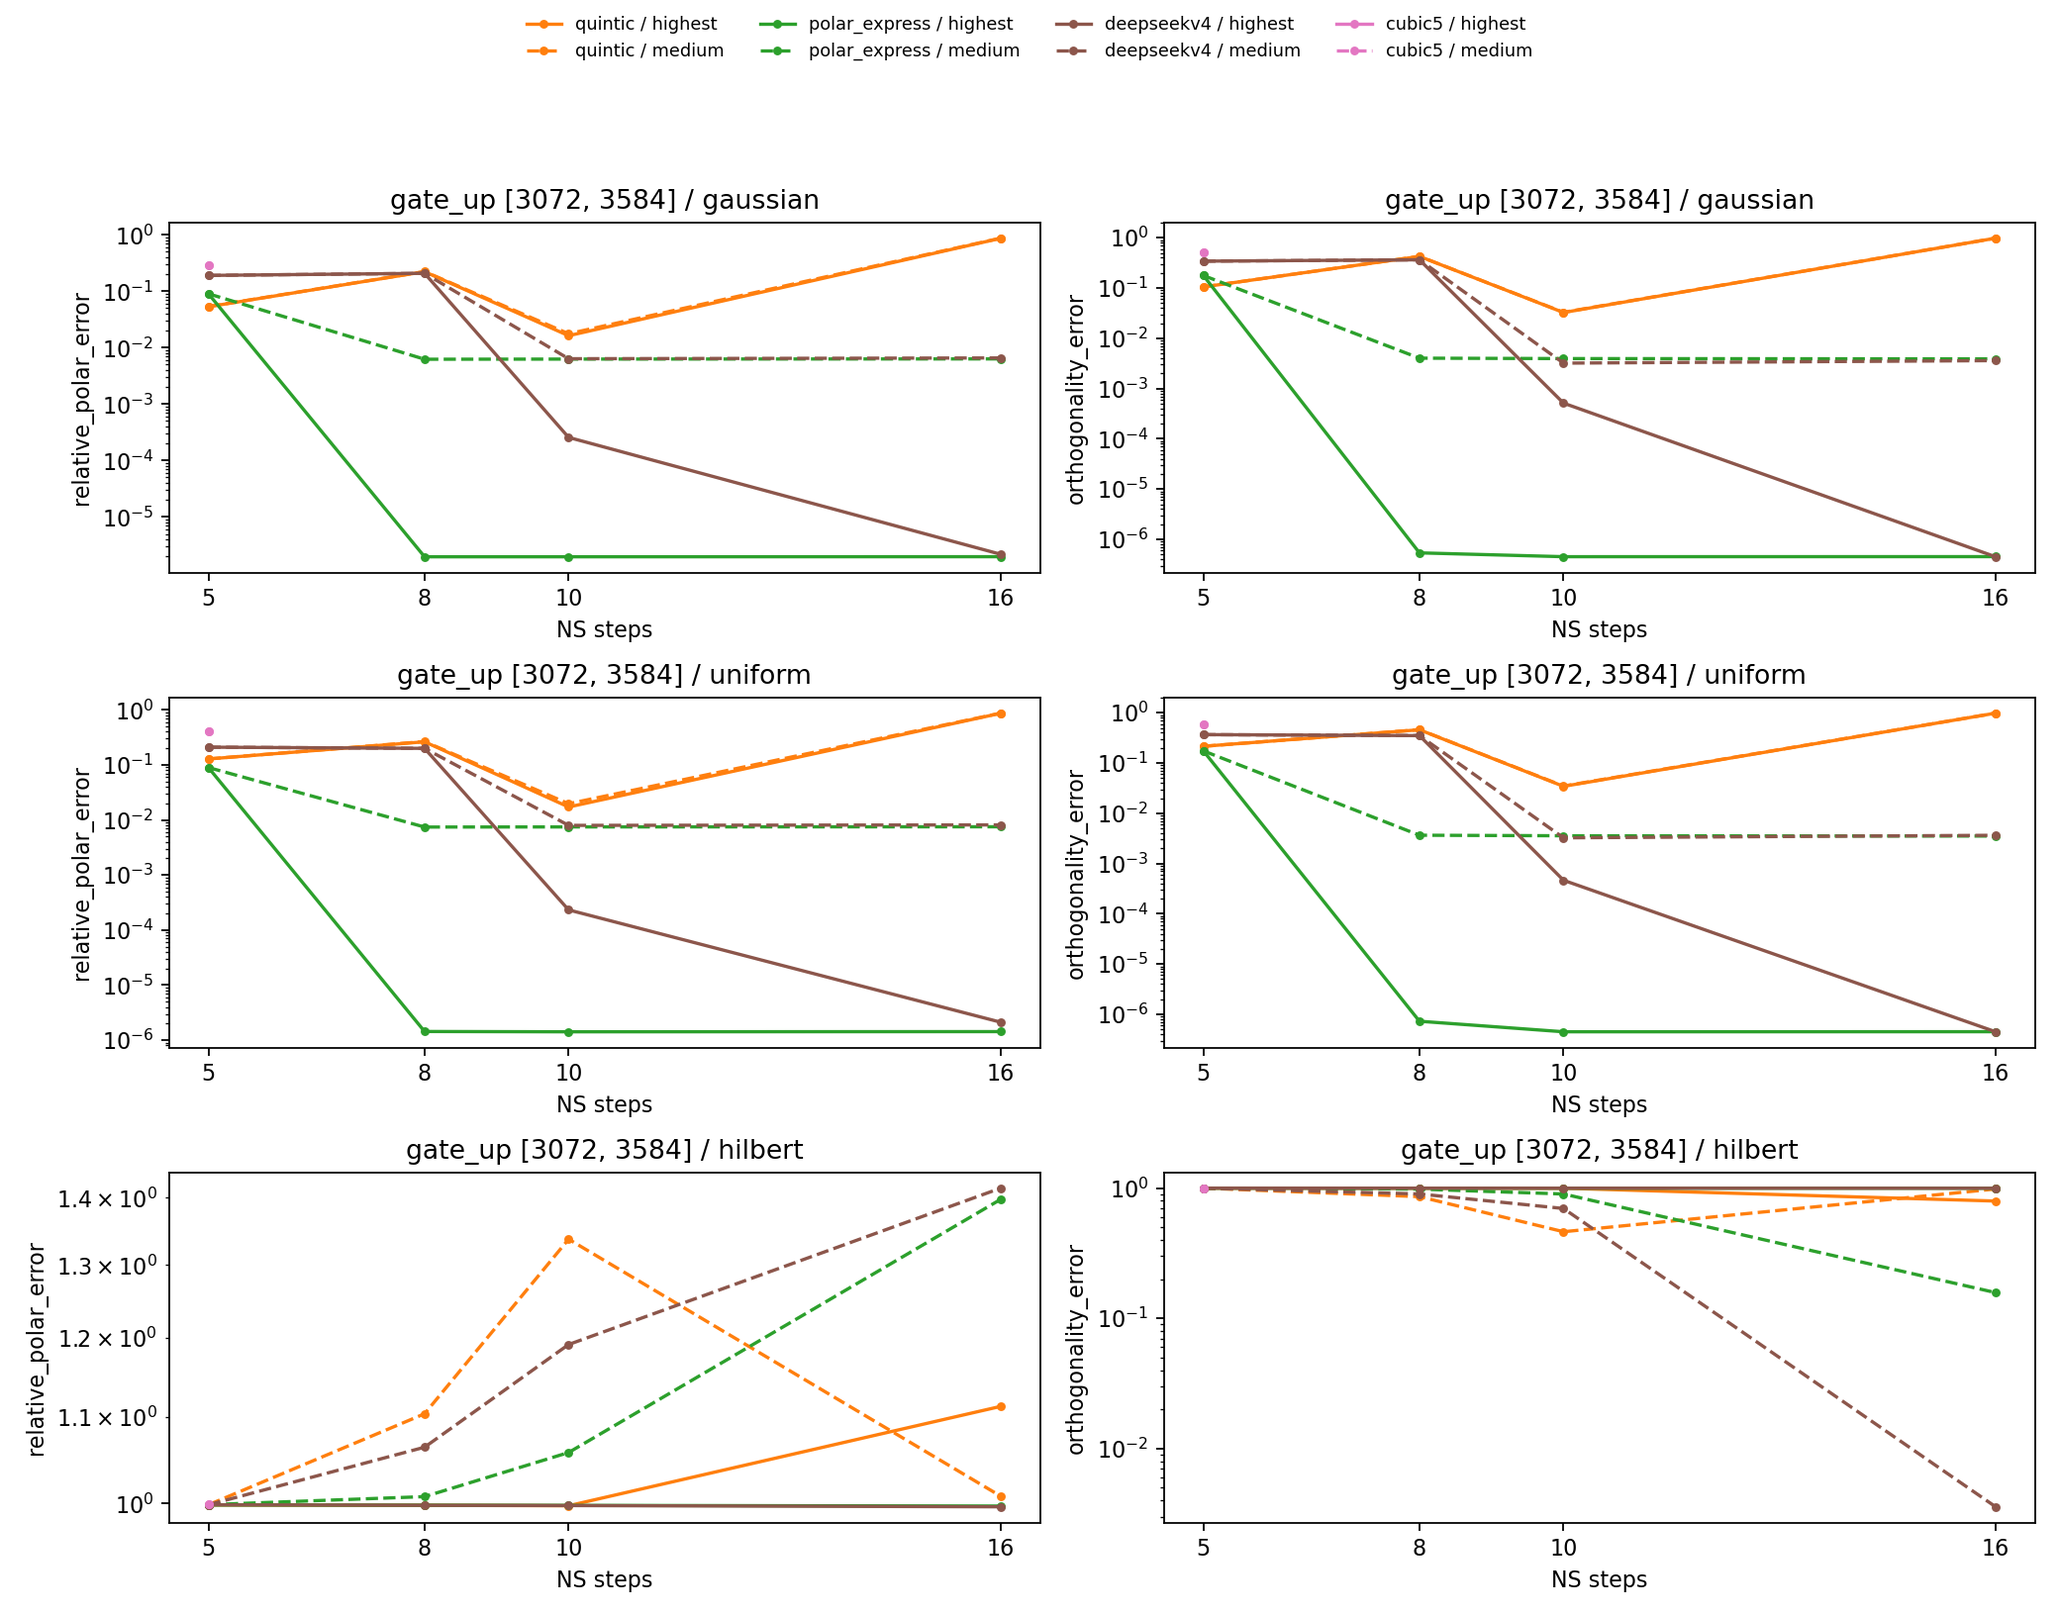
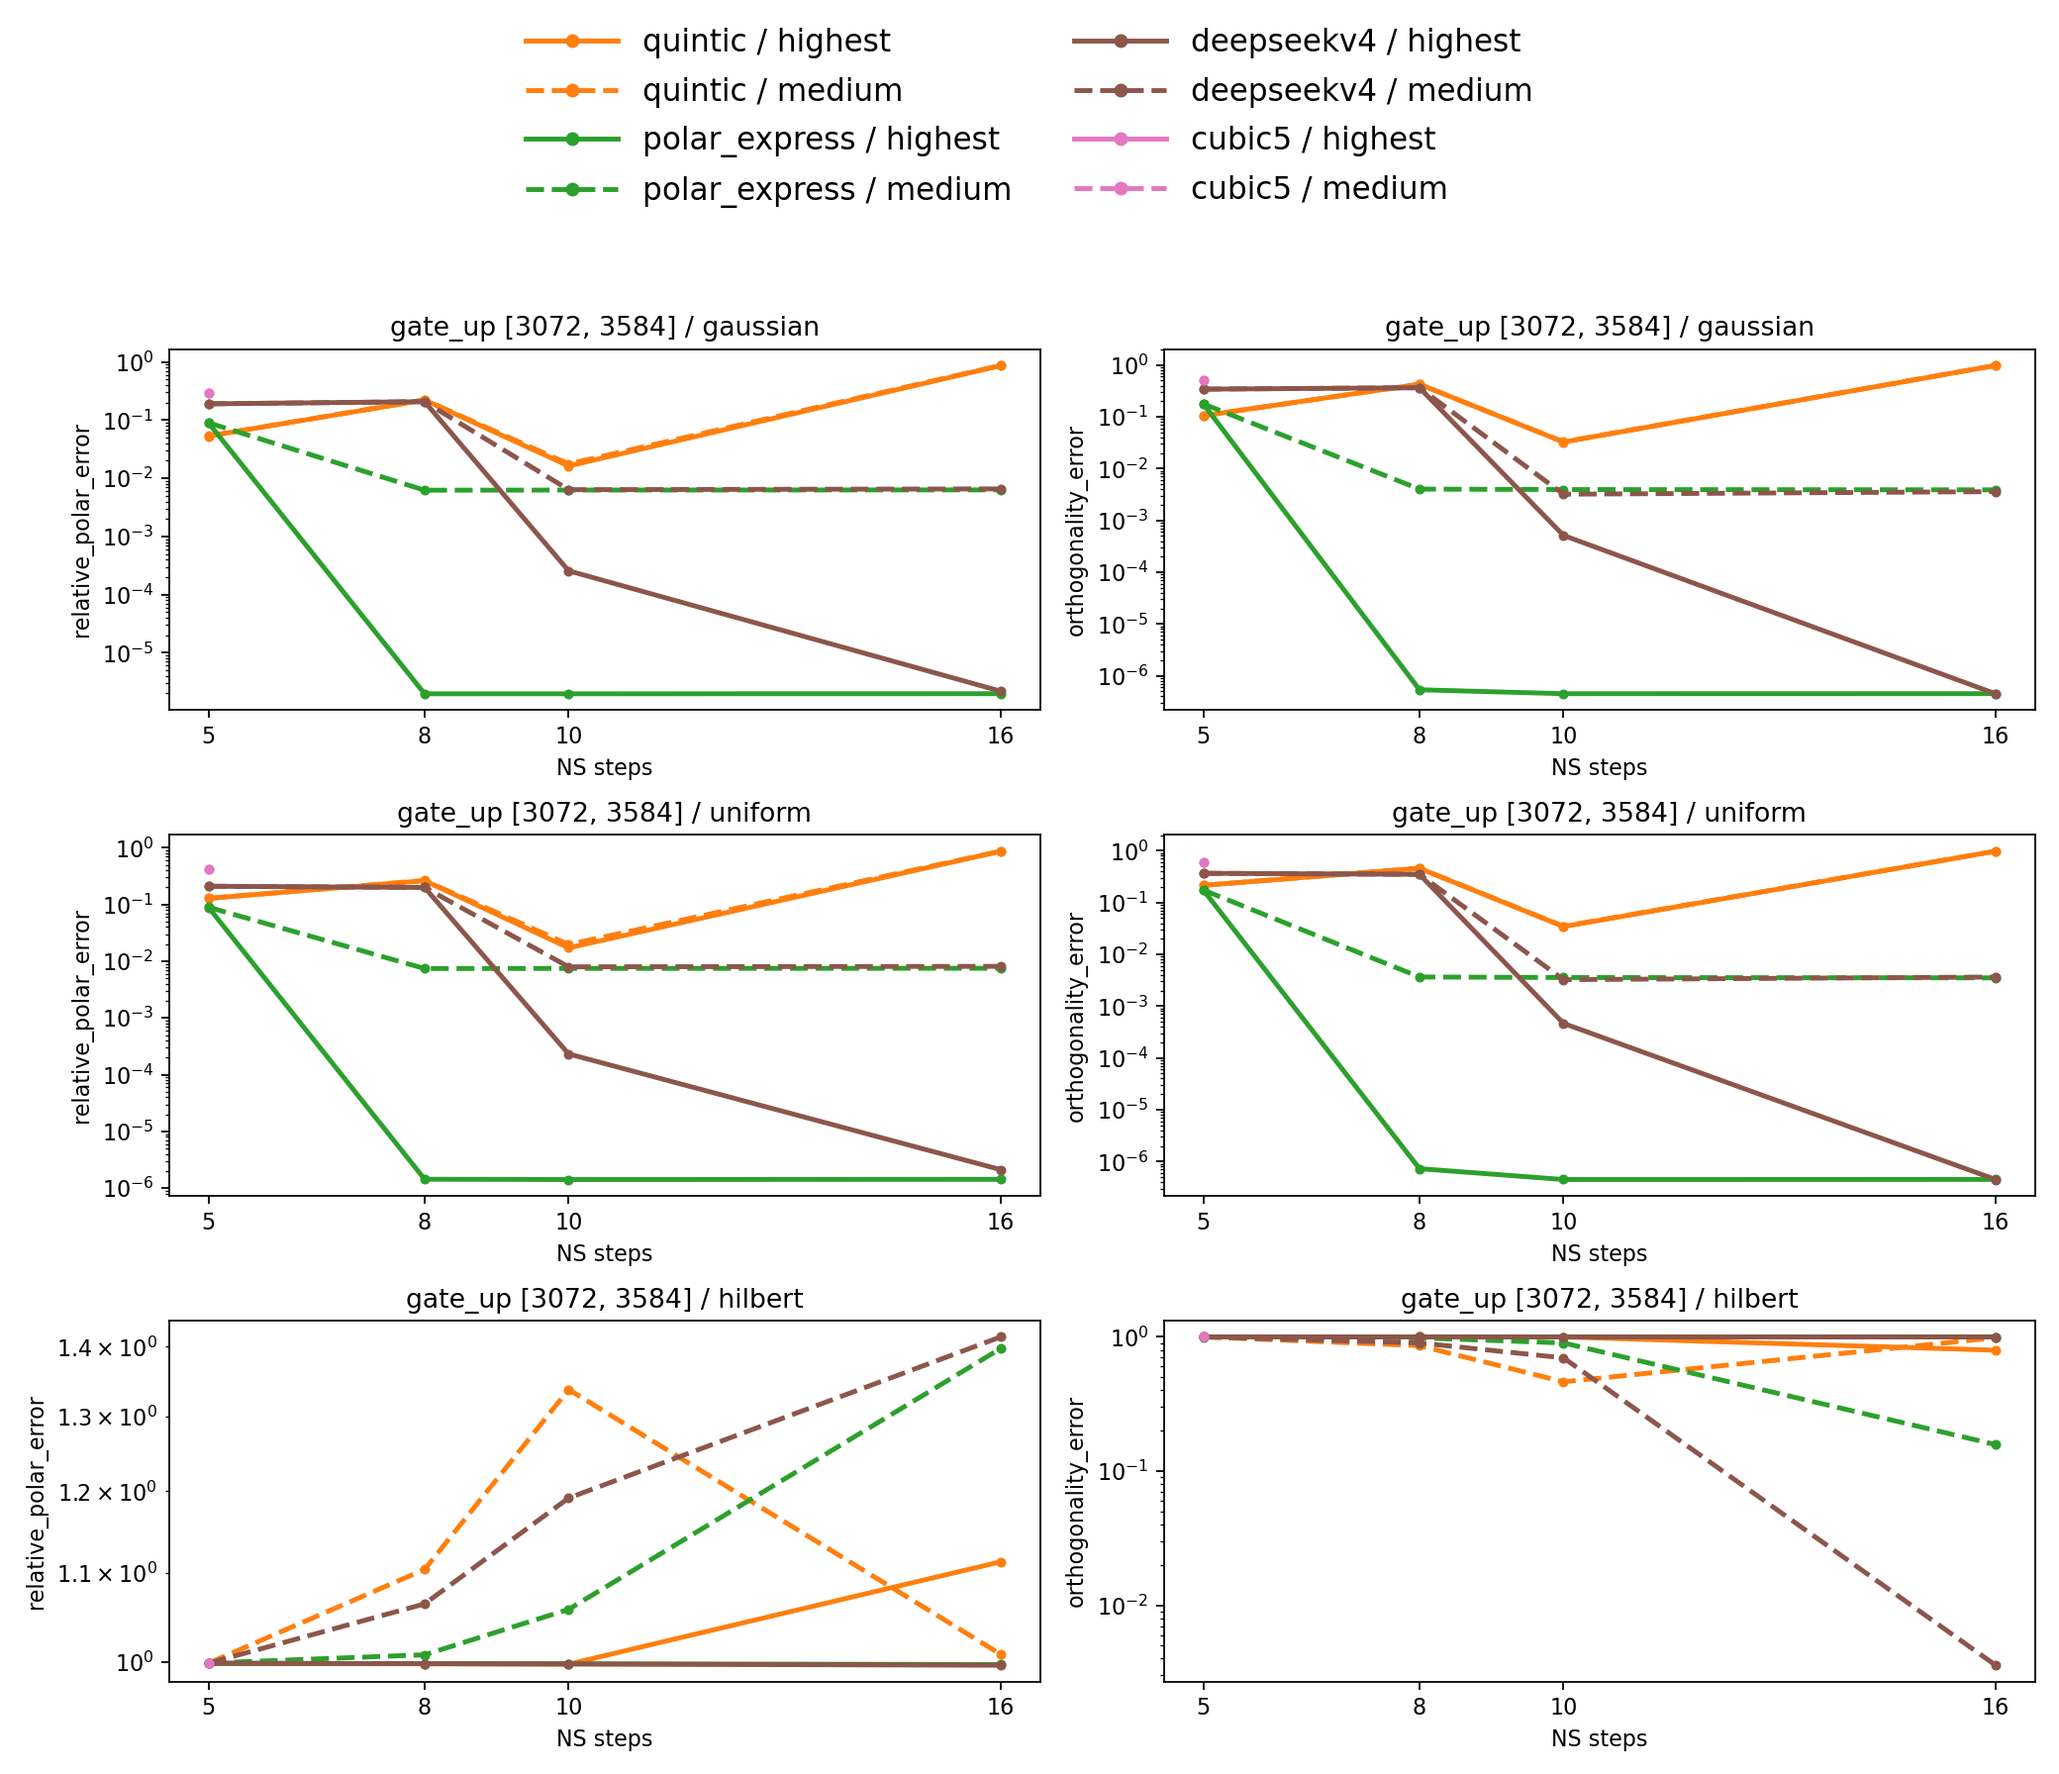
adjust format

diff --git a/benchmarks/newton_schulz_quality.py b/benchmarks/newton_schulz_quality.py
@@ -78,7 +78,7 @@ def plot_results(rows: list[dict[str, Any]], path: Path) -> None:
     import matplotlib.pyplot as plt
 
     cases = list(dict.fromkeys((row["weight"], row["spectrum"]) for row in rows))
-    fig, axes = plt.subplots(len(cases), 2, figsize=(13, 3.4 * len(cases)), squeeze=False)
+    fig, axes = plt.subplots(len(cases), 2, figsize=(13, 3.4 * len(cases) + 1), squeeze=False)
     colors = dict(zip(_COEFFICIENT_SETS, plt.get_cmap("tab10").colors))
     styles = {"highest": "-", "high": ":", "medium": "--"}
     for axes_row, (weight, spectrum) in zip(axes, cases):
@@ -99,6 +99,8 @@ def plot_results(rows: list[dict[str, Any]], path: Path) -> None:
                         color=colors[coefficient],
                         linestyle=styles[precision],
                         marker=".",
+                        linewidth=2.2,
+                        markersize=7,
                         label=f"{coefficient} / {precision}",
                     )
             ax.set(title=f"{weight} {selected[0]['shape']} / {spectrum}", xlabel="NS steps", ylabel=metric)
@@ -106,8 +108,19 @@ def plot_results(rows: list[dict[str, Any]], path: Path) -> None:
             ax.grid(False, which="both")
             ax.set_facecolor("white")
     handles, labels = axes[0, 0].get_legend_handles_labels()
-    fig.legend(handles, labels, loc="upper center", ncol=4, fontsize=8, frameon=False)
-    fig.tight_layout(rect=(0, 0, 1, 1 - 1.05 / fig.get_figheight()))
+    fig.legend(
+        handles,
+        labels,
+        loc="upper center",
+        ncol=2,
+        fontsize=14,
+        frameon=False,
+        handlelength=3,
+        markerscale=1.5,
+        labelspacing=0.6,
+        columnspacing=2,
+    )
+    fig.tight_layout(rect=(0, 0, 1, 1 - 1.85 / fig.get_figheight()))
     path.parent.mkdir(parents=True, exist_ok=True)
     fig.savefig(path, dpi=160, facecolor="white", transparent=False)
     plt.close(fig)
